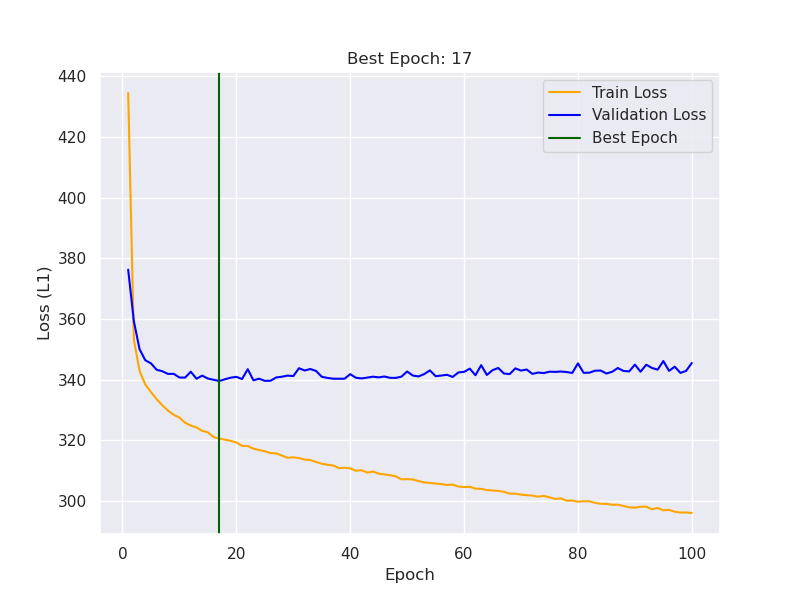
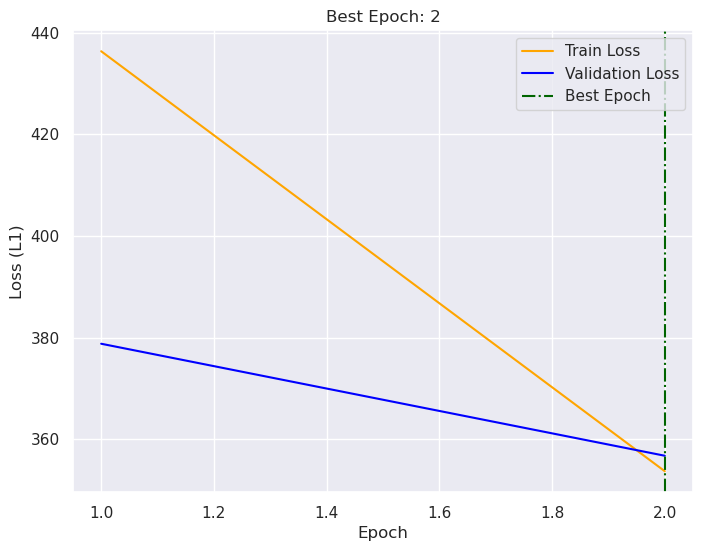
add dashdot linestyle

diff --git a/src/dnn/dnn/model/core.py b/src/dnn/dnn/model/core.py
@@ -94,12 +94,12 @@ class Model():
         plt.plot(epochs, self.train_loss, label="Train Loss", color="orange")
         plt.plot(epochs, self.val_loss, label="Validation Loss", color="blue")
         best_epoch = np.argmin(self.val_loss) + 1
-        plt.axvline(x=best_epoch, label="Best Epoch", color="darkgreen")
+        plt.axvline(x=best_epoch, label="Best Epoch", color="darkgreen", linestyle="dashdot")
         plt.xlabel("Epoch")
         plt.ylabel("Loss (L1)")
         plt.title(f"Best Epoch: {best_epoch}")
         plt.legend(loc="upper right")
-        fig.savefig(os.path.join(self.reports_path, LOSS_CURVE))
+        plt.savefig(os.path.join(self.reports_path, LOSS_CURVE), bbox_inches="tight")
         plt.close()
 
     @timing
@@ -220,7 +220,7 @@ class Model():
                 train_batch_loss.append(loss.item())
                 message = \
                     f"EPOCH:{epoch+1}/{self.epochs}, " + \
-                    f"step:{i+1}/{self.num_train_samples//self.batch_size}, " + \
+                    f"step:{i+1}/{(self.num_train_samples//self.batch_size)+1}, " + \
                     f"loss={loss.item():.4f}"
                 print(message, end="\r", file=sys.stderr)
             # Take the average of iteration losses and append it
@@ -240,7 +240,7 @@ class Model():
                     val_batch_loss.append(loss.item())
                     message = \
                         f"EPOCH:{epoch+1}/{self.epochs}, " + \
-                        f"step:{i+1}/{self.num_train_samples//self.batch_size}, " + \
+                        f"step:{i+1}/{(self.num_train_samples//self.batch_size)+1}, " + \
                         f"loss={loss.item():.4f}"
                     print(message, end="\r", file=sys.stderr)
             # Take the average of iteration losses and append it
